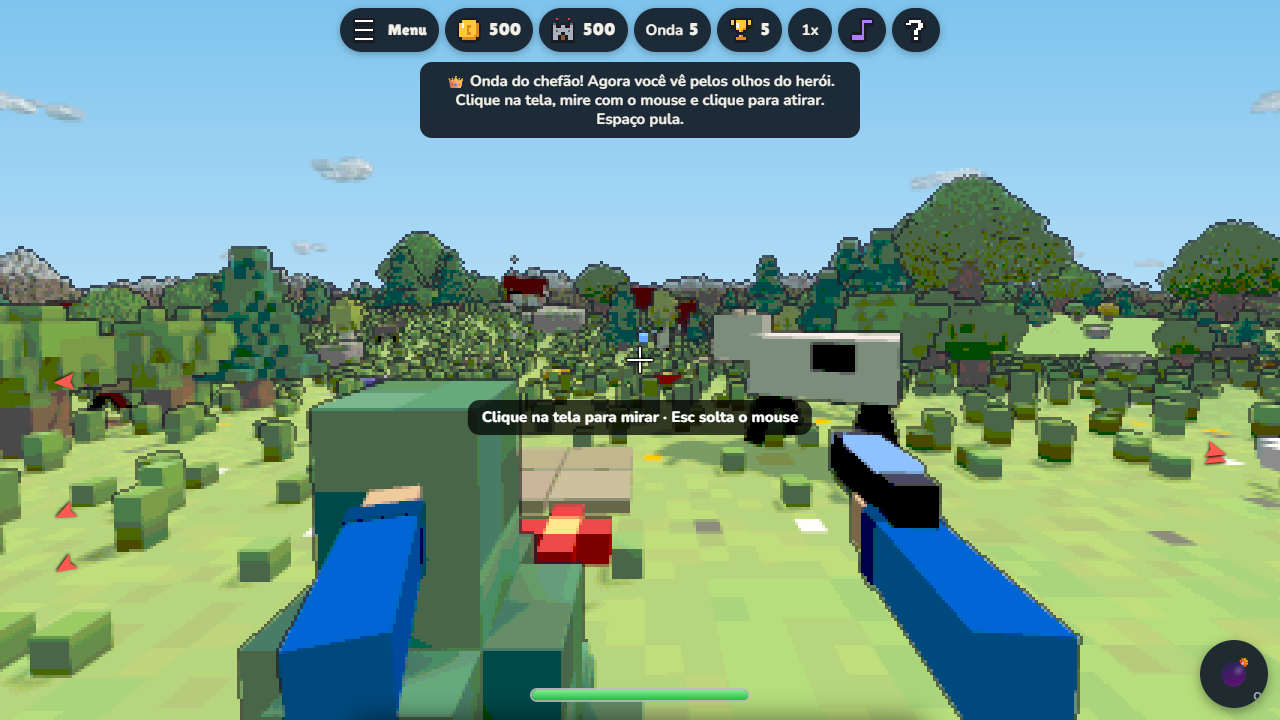
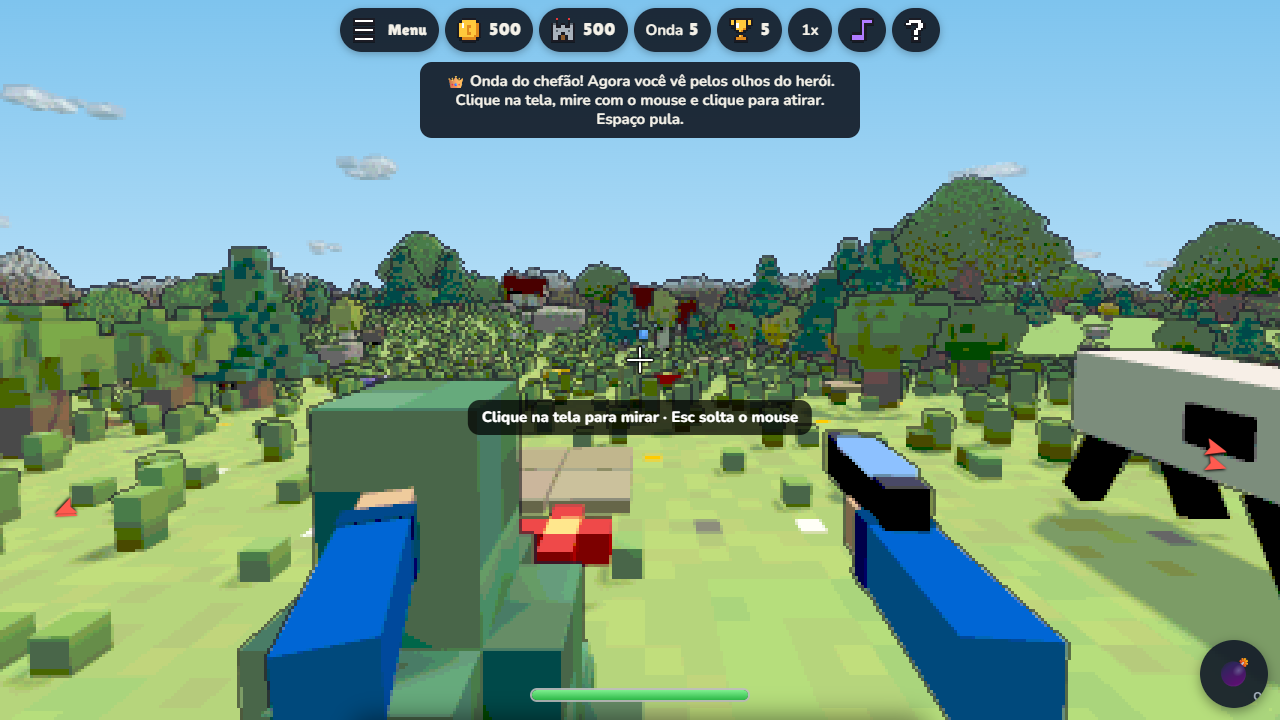
feat: online com visão em primeira pessoa e contra com castelos mais longe
- Juntos e contra: botão 1ª pessoa/normal (tecla V), cada jogador escolhe.
  O convidado manda a mira e o tiro para o host.
- Contra: castelos 40 casas um do outro (eram 30). Tiro e bomba do herói
  acertam as armas e o castelo do outro jogador; o herói mira sozinho neles
  quando não há monstro perto.

diff --git a/index.html b/index.html
@@ -74,12 +74,14 @@ background:var(--card);border-radius:20px 20px 0 0;box-shadow:0 -6px 24px #0007;
 #fpHp{position:fixed;left:50%;bottom:calc(var(--sab) + 18px);width:220px;max-width:40vw;height:14px;transform:translateX(-50%);background:#000a;border:2px solid #fffa;border-radius:9px;overflow:hidden;display:none;pointer-events:none}
 #fpHp i{display:block;height:100%;width:100%;background:linear-gradient(#7ef08f,#2fbf4a);transition:width .15s}
 #fpHint{position:fixed;left:50%;top:calc(50% + 40px);transform:translateX(-50%);background:#000b;color:#fff;padding:8px 14px;border-radius:12px;pointer-events:none;display:none;white-space:nowrap;font-weight:800}
-#fpBtns{position:fixed;right:calc(var(--sar) + 14px);bottom:calc(var(--sab) + 104px);display:none;align-items:flex-end;gap:14px;touch-action:none}
+#fpBtns{position:fixed;right:calc(var(--sar) + 92px);bottom:calc(var(--sab) + 84px);display:none;flex-direction:column;align-items:center;gap:12px;touch-action:none}
 #fpFire{width:88px;height:88px;border-radius:50%;background:#e23b3bdd;box-shadow:0 4px 0 #8f1f1f,0 6px 14px #0006}#fpFire .ico{width:40px;height:40px;margin:0}
 #fpFire.on{transform:translateY(3px);box-shadow:0 1px 0 #8f1f1f}
 #fpJump{width:64px;height:64px;border-radius:50%;background:var(--card);font-size:26px;box-shadow:0 4px 12px #0006}
 body.fp #cross,body.fp #fpHp{display:block}body.fp #fpHint:not([hidden]){display:block}body.fp.touch #fpBtns{display:flex}
-body.fp #shopBtn,body.fp #wave,body.fp #aimHint{display:none}
+body.fpSolo #shopBtn,body.fp.fpWaving #wave{display:none}body.touch #fpHp{left:calc(var(--sal) + 18px);bottom:calc(var(--sab) + 162px);width:132px;transform:none}
+body.touch #viewBtn{width:60px;height:60px;border-radius:50%;padding:0;flex-direction:column;justify-content:center;gap:1px;font-size:10px;line-height:1.05}body.touch #viewBtn .ico{margin:0;width:22px;height:22px}
+#viewBtn{display:flex;align-items:center;gap:4px;padding:0 14px;background:var(--card);box-shadow:0 4px 12px #0006;font-weight:800}#viewBtn[hidden]{display:none}#viewBtn.on{background:#ffc93c;color:#2a1a00}
 .ico{width:1.25em;height:1.25em;flex:none;vertical-align:-.25em;margin-right:.4em;filter:drop-shadow(0 1px 0 #0006)}
 .pill .ico{width:24px;height:24px;margin-right:2px}#menuBtn .ico,#helpBtn .ico,#musPill .ico{margin:0}#menuBtn .lbl{font-family:"Lilita One",Nunito,sans-serif;font-weight:400;letter-spacing:.5px}
 .pill b{font-family:"Lilita One",Nunito,sans-serif;font-weight:400;font-size:17px;letter-spacing:.5px}
@@ -189,6 +191,7 @@ body.fp #shopBtn,body.fp #wave,body.fp #aimHint{display:none}
 <div id="fpHint" hidden>Clique na tela para mirar · Esc solta o mouse</div>
 <div id="fpBtns"><button id="fpJump" aria-label="Pular">▲</button><button id="fpFire" aria-label="Atirar (segure)"><span class="hi" data-i="target"></span></button></div>
 <div id="bar">
+  <button id="viewBtn" hidden><span class="hi" data-i="eye"></span><span class="t">1ª pessoa</span></button>
   <button id="shopBtn" class="round" aria-label="Abrir loja">🛒</button>
   <button id="runBtn" class="round" aria-label="Correr mais rápido" hidden>⚡<small id="runLeft"></small></button>
   <button id="bomb" aria-label="Jogar bomba">💣<small id="bombKey">Q</small></button>
@@ -352,6 +355,7 @@ const ICO = {
   keys: ['KKKKKKKKKK', 'KWWKWWKWWK', 'KKKKKKKKKK', 'KWKWWWWKWK', 'KKKKKKKKKK'],
   mouse: ['..KKKK..', '.KWWKSK.', 'KWWWKSSK', 'KKKKKKKK', 'KSSSSSSK', 'KSSSSSSK', '.KSSSSK.', '..KKKK..'],
   pad: ['KKKKKKKKKK', 'KSSSSKSSSK', 'KSSSSKSSSK', 'KKKKKKKKKK', 'KSSKSSSSSK', 'KSSKSSSSSK', 'KKKKKKKKKK'],
+  eye: ['..........', '...KKKK...', '.KKWWWWKK.', 'KWWWccWWWK', 'KWWcKKcWWK', 'KWWcKKcWWK', 'KWWWccWWWK', '.KKWWWWKK.', '...KKKK...'],
   play: ['KK......', 'KWKK....', 'KWWWKK..', 'KWWWWWKK', 'KWWWWWKK', 'KWWWKK..', 'KWKK....', 'KK......'],
 };
 /** Ícone em SVG (pixels nítidos). Junta pixels vizinhos da mesma cor para ficar leve. */
@@ -495,7 +499,8 @@ const BICHOS_TXT = { floresta: '🐄 Bois, bodes e coelhos', deserto: '🐪 Came
 const PVP = MODE === "pvp", ONLINE = MODE !== "solo", ME = ROLE === "guest" ? 1 : 0, GUEST = ROLE === "guest";
 // Castelos (centro em coordenadas de casa). No contra, cada jogador tem o seu: 0 a oeste, 1 a leste.
 const CASTLE_MAX = 500;   // vida do castelo (todos os modos)
-const CASTLES = PVP ? [{ ci: HALF - 15.5, cj: C0 }, { ci: HALF + 14.5, cj: C0 }] : [{ ci: C0, cj: C0 }];
+const PVP_GAP = 40;   // casas entre os dois castelos no modo contra (era 30)
+const CASTLES = PVP ? [{ ci: HALF - PVP_GAP / 2 - .5, cj: C0 }, { ci: HALF + PVP_GAP / 2 - .5, cj: C0 }] : [{ ci: C0, cj: C0 }];
 // Portais: 0 norte, 1 sul, 2 oeste, 3 leste. No contra, os do jogador 0 são norte e oeste; os do jogador 1, sul e leste.
 const SIDE_TEAM = [0, 1, 0, 1];
 const castleDist = (i, j) => Math.min(...CASTLES.map(c => Math.max(Math.abs(i - c.ci), Math.abs(j - c.cj))));
@@ -1948,6 +1953,18 @@ const hitAny = (tg, dmg, flash) => tg.kind === 'hero' ? damageTarget(tg, dmg) : 
 // Herói inimigo (só no contra) que um tiro/área do jogador pl pode acertar
 const foeHero = pl => PVP ? heroes[1 - pl] : null;
 function hitFoeHero(pl, x, z, rad, dmg) { const fh = foeHero(pl); if (fh && !fh.dead && Math.hypot(fh.pos.x - x, fh.pos.z - z) < rad + fh.r) { damageTarget(fh, dmg); return fh; } return null; }
+// Contra: as armas e o castelo do outro jogador também levam tiro e bomba do herói.
+const PVP_HIT_TOWER = 1, PVP_HIT_CASTLE = .4, CASTLE_R = 2.2;
+function pvpStructs(pl) {
+  if (!PVP) return [];
+  const L = [];
+  for (const t of towers) if (!t.dead && t.owner !== pl) L.push({ tg: t, x: t.pos.x, z: t.pos.z, r: t.r, k: PVP_HIT_TOWER });
+  for (const cs of CASTLES) if (cs.T.pl !== pl) L.push({ tg: cs.T, x: cs.x, z: cs.z, r: CASTLE_R, k: PVP_HIT_CASTLE, box: true });
+  return L;
+}
+const structDist = (o, x, z) => o.box ? Math.hypot(Math.max(Math.abs(x - o.x) - o.r, 0), Math.max(Math.abs(z - o.z) - o.r, 0)) : Math.max(0, Math.hypot(x - o.x, z - o.z) - o.r);
+function pvpStructHit(pl, x, z, rad, dmg) { for (const o of pvpStructs(pl)) if (structDist(o, x, z) < rad) { damageTarget(o.tg, dmg * o.k); return o; } return null; }
+function pvpStructArea(pl, x, z, rad, dmg) { for (const o of pvpStructs(pl)) if (structDist(o, x, z) < rad) damageTarget(o.tg, dmg * o.k); }
 function areaDamage(p, radius, dmg, castleDmg, team = -1) {
   const foe = PVP ? 1 - team : -1, ok = pl => !PVP || pl === foe;
   for (const hh of heroes) if (!hh.dead && ok(hh.pl) && Math.hypot(hh.pos.x - p.x, hh.pos.z - p.z) < radius + hh.r) damageTarget(hh, dmg);
@@ -2259,7 +2276,7 @@ function explodeAt(p, radius, dmg, big, pl = 0, heroHit = false) {
   p.y = .2; sfx('boom', p.x, p.z); pfx(big ? 'bigboom' : 'boom', p.x, 0, p.z, big ? 1 : .75);
   burst(p, 0xffa53a, big ? 18 : 10, big ? 4 : 3, big ? .17 : .14); burst(p, 0x777777, big ? 9 : 6, 2, .12);
   for (const e of [...enemies]) if (!e.dead && !(PVP && e.team === pl) && Math.hypot(e.pos.x - p.x, e.pos.z - p.z) <= radius + e.r) hurt(e, dmg);
-  if (heroHit) hitFoeHero(pl, p.x, p.z, radius, dmg * .5);
+  if (heroHit) { hitFoeHero(pl, p.x, p.z, radius, dmg * .5); pvpStructArea(pl, p.x, p.z, radius, dmg * .5); }
 }
 function updateShots(dt) {
   for (const s of shots) {
@@ -2273,6 +2290,7 @@ function updateShots(dt) {
     if (s.k === 'hb') {
       const step = s.sp * dt; s.m.position.addScaledVector(s.dir, step); s.life -= dt;
       const pl = s.pl || 0, land = () => { if (s.rad) radArea(s.m.position, pl); else if (s.poison) { poisonArea(s.m.position, 1.4, 0, s.poison, pl); clouds[clouds.length - 1].hero = PVP; } else burst(s.m.position, 0x93c5fd, 3, 1, .06); };
+      if (PVP && pvpStructHit(pl, s.m.position.x, s.m.position.z, .18, s.boom ? s.dmg * 4 : s.dmg)) { s.done = true; land(); continue; }
       if (s.life <= 0 || hitsSolid(s.m.position.x, s.m.position.z)) { s.done = true; land(); continue; }
       for (const e of enemies) if (!e.dead && !(PVP && e.team === pl) && Math.hypot(e.pos.x - s.m.position.x, e.pos.z - s.m.position.z) < e.r + .18) {
         hurt(e, s.dmg); s.done = true; if (s.boom) stickArrow(e, pl); else land();
@@ -2539,6 +2557,7 @@ function heroAttack(dir) {
       if (e.kind === 'hero') { damageTarget(e, 3 + n * .6); continue; }
       hurt(e, 3 + n * .6); e.burnDps = Math.max(e.burnT > 0 ? e.burnDps : 0, 4 + n * .8); e.burnT = 2.5;
     }
+    for (const st of pvpStructs(hero.pl)) { const dx = st.x - hero.pos.x, dz = st.z - hero.pos.z, d = Math.hypot(dx, dz) || 1e-3; if (d <= HW.fogo.range + st.r && (dx * dir.x + dz * dir.z) / d >= .75) damageTarget(st.tg, (3 + n * .6) * st.k); }
     return;
   }
   if (w === 'raio') {
@@ -2575,6 +2594,7 @@ function heroAttack(dir) {
     hurt(e, e.T.boss ? e.maxHp * (e.type === 'rex' ? .06 : e.type === 'dragao' ? .045 : .04) + 30 + n * 4 : e.maxHp + 50);
     burst(V(e.pos.x, e.hitY + .2, e.pos.z), 0xff4040, 6, 2, .08);
   }
+  for (const st of pvpStructs(hero.pl)) { const dx = st.x - o.x, dz = st.z - o.z, t = dx * dir.x + dz * dir.z; if (t >= 0 && t <= L + st.r && Math.abs(dx * dir.z - dz * dir.x) <= st.r + .3) damageTarget(st.tg, (40 + n * 4) * st.k); }
   laserBeam(o, V(o.x + dir.x * L, .8, o.z + dir.z * L));
 }
 const heroLaserMat = new THREE.MeshBasicMaterial({ color: 0xff2a2a }), laserCore = new THREE.MeshBasicMaterial({ color: 0xffe4e4 });
@@ -2675,9 +2695,11 @@ function updateHero(dt, rdt, time) {
     if (d < nd) { nd = d; nearE = e; }
     if (d < 3.5) danger = true;
   }
-  if (FP.on && hero.pl === ME) {
+  if (!nearE && PVP) for (const st of pvpStructs(hero.pl)) { const d = structDist(st, hero.pos.x, hero.pos.z); if (d < nd) { nd = d; nearE = { pos: V(st.x, 0, st.z) }; } }
+  const fpCtl = hero.pl === ME ? (FP.on ? FP : null) : (NET.inp && NET.inp.fp && NET.inp.life === hero.life ? NET.inp : null);
+  if (fpCtl) {
     // primeira pessoa: atira para onde a mira aponta, só quando você aperta. Ajuda leve puxa para o monstro perto da mira.
-    aimV.set(-Math.sin(FP.yaw), 0, -Math.cos(FP.yaw));
+    aimV.set(-Math.sin(fpCtl.yaw), 0, -Math.cos(fpCtl.yaw));
     let bestA = .1, tgt = null;
     for (const e of TG) {
       const dx = e.pos.x - hero.pos.x, dz = e.pos.z - hero.pos.z, d = Math.hypot(dx, dz);
@@ -2686,7 +2708,7 @@ function updateHero(dt, rdt, time) {
     }
     if (tgt) aimV.set(tgt.pos.x - hero.pos.x, 0, tgt.pos.z - hero.pos.z).normalize();
     face = null; hero.g.rotation.y = Math.atan2(aimV.x, aimV.z);
-    if (FP.fire && dt && hero.cd <= 0) { heroAttack(aimV); FP.kick = 1; }
+    if (fpCtl.fire && dt && hero.cd <= 0) { heroAttack(aimV); if (hero.pl === ME) FP.kick = 1; }
   } else if (nearE && dt) {
     if (aimP) {
       aimV.set(aimP.x - hero.pos.x, 0, aimP.z - hero.pos.z).normalize();
@@ -2947,7 +2969,7 @@ $('helpList').innerHTML = TOUCH
   ? '<li>' + ico('zombie') + ' A partir da onda 5 aparecem os zumbis <b>Chipados</b>. Derrube um e ele solta uma ' + ico('heart') + ': pegue e leve até o castelo para ganhar vida.</li><li>' + ico('shield') + ' Onda 10: o <b>Ogro</b> solta um escudo (1 minuto sem levar dano). ' + ico('bolt') + ' Onda 15: o <b>Mutante</b> solta fôlego para correr mais rápido. ' + ico('dino') + ' Onda 20: chega o <b>Rei Rex</b>! ' + ico('dragon') + ' Da onda 25 em diante: o <b>Dragão</b>, que cospe fogo!</li><li>' + ico('cow') + BICHOS_TXT.replace(/^\S+\s/, '') + ' andam pelo mapa e atrapalham os monstros.</li><li>Ande com o controle redondo à esquerda.</li><li>O herói atira sozinho no monstro mais perto.</li><li>' + ico('bomb') + ' joga uma bomba. ' + ico('cart') + ' abre a loja de armas.</li><li>Toque nas placas de pedra para pôr armas.</li><li>Os monstros vêm de todos os lados e atacam suas armas.</li>'
   : '<li>' + ico('zombie') + ' A partir da onda 5 aparecem os zumbis <b>Chipados</b>. Derrube um e ele solta uma ' + ico('heart') + ': pegue e leve até o castelo para ganhar vida.</li><li>' + ico('shield') + ' Onda 10: o <b>Ogro</b> solta um escudo (1 minuto sem levar dano). ' + ico('bolt') + ' Onda 15: o <b>Mutante</b> solta fôlego para correr mais rápido. ' + ico('dino') + ' Onda 20: chega o <b>Rei Rex</b>! ' + ico('dragon') + ' Da onda 25 em diante: o <b>Dragão</b>, que cospe fogo!</li><li>' + ico('cow') + BICHOS_TXT.replace(/^\S+\s/, '') + ' andam pelo mapa e atrapalham os monstros.</li><li><b>WASD</b> ou setas: anda com o herói.</li><li>O herói atira sozinho quando um monstro chega perto. <b>O mouse escolhe a direção</b>. Clique para atirar também.</li><li><b>Q</b> ou <b>espaço</b>: joga bomba onde o mouse aponta.</li><li>Clique nas placas de pedra para pôr armas.</li><li><b>B</b> ou ' + ico('cart') + ': loja com armas novas.</li><li><b>Enter</b> começa a onda. Arraste para mover a câmera, roda do mouse para zoom.</li>';
 $('bombKey').hidden = TOUCH;
-$('helpList').insertAdjacentHTML('afterbegin', '<li>' + ico('target') + ' Nas ondas <b>5, 10, 15...</b> vem um chefão e o jogo vira <b>primeira pessoa</b>: ' + (TOUCH ? 'arraste a tela para mirar, segure o botão vermelho para atirar e use ▲ para pular' : 'o mouse mira, o clique atira, <b>espaço</b> pula e <b>Q</b> joga bomba') + '. A loja fecha até você vencer a onda.</li>');
+$('helpList').insertAdjacentHTML('afterbegin', '<li>' + ico('target') + ' Nas ondas <b>5, 10, 15...</b> vem um chefão e o jogo vira <b>primeira pessoa</b>: ' + (TOUCH ? 'arraste a tela para mirar, segure o botão vermelho para atirar e use ▲ para pular' : 'o mouse mira, o clique atira, <b>espaço</b> pula e <b>Q</b> joga bomba') + '. A loja fecha até você vencer a onda. No jogo online, o botão <b>1ª pessoa</b>' + (TOUCH ? '' : ' (ou a tecla <b>V</b>)') + ' troca a visão quando você quiser.</li>');
 for (const el of document.querySelectorAll('.hi[data-i]')) el.outerHTML = ico(el.dataset.i, el.className.replace('hi', '').trim());
 function addPower(p) { S.power = Math.round((S.power + p) * 100) / 100; S.dmgMul = 1 + S.power * .5; }
 let shopSig = '';
@@ -2966,7 +2988,7 @@ function renderShop() {
     `${T.desc}. Depois custa 🪙 ${T.cost} cada${pw(S.unlocked.has(T) ? 0 : T.power)}`,
     S.unlocked.has(T) ? '<button class="on" disabled>✓ Liberada</button>' : `<button class="pri" data-unlock="${k}" ${S.gold >= T.unlock ? '' : 'disabled'}>Liberar 🪙 ${T.unlock}</button>`)).join('');
 }
-function openShop() { if (S.over) return; if (FP.on) return toast('Na onda do chefão a loja fica fechada. Vença a onda para comprar!', 2600); closeSheet(); S.shop = true; shopSig = ''; renderShop(); $('shop').classList.add('show'); }
+function openShop() { if (S.over) return; if (document.pointerLockElement) document.exitPointerLock(); if (FP.on && !ONLINE) return toast('Na onda do chefão a loja fica fechada. Vença a onda para comprar!', 2600); closeSheet(); S.shop = true; shopSig = ''; renderShop(); $('shop').classList.add('show'); }
 function closeShop() { S.shop = false; $('shop').classList.remove('show'); updateUI(); }
 $('shopBtn').onclick = openShop;
 $('shopClose').onclick = closeShop;
@@ -3017,6 +3039,7 @@ addEventListener('keydown', e => {
   if (e.code === 'Enter') act({ c: 'wave' });
   if (e.code === 'KeyB') { S.shop ? closeShop() : openShop(); }
   if (e.code === 'Escape' && S.shop) closeShop();
+  if (e.code === 'KeyV') toggleView();
   if (e.code === 'Space' && FP.on) { e.preventDefault(); fpJump(); }
   else if (e.code === 'KeyQ' || e.code === 'Space') { e.preventDefault(); throwBomb(); }
   if ((e.code === 'ShiftLeft' || e.code === 'ShiftRight') && !e.repeat) toggleSprint();
@@ -3137,7 +3160,7 @@ const FP_GLOW = { blaster: 0x93c5fd, fogo: 0xff8a1f, raio: 0xfde047, radiacao: 0
 const fpTouch = new Map();
 function fpSet(on) {
   if (FP.on === on) return;
-  FP.on = on; document.body.classList.toggle('fp', on);
+  FP.on = on; document.body.classList.toggle('fp', on); document.body.classList.toggle('fpSolo', on && !ONLINE); viewBtnUI();
   if (!FP.arms) FP.arms = makeFpArms();
   FP.arms.visible = on; FP.fire = false; FP.y = FP.vy = 0; fpTouch.clear(); $('fpFire').classList.remove('on');
   ptrs.clear(); drag = null;
@@ -3145,13 +3168,19 @@ function fpSet(on) {
   if (on) {
     closeSheet();
     FP.yaw = hero.g.rotation.y + Math.PI; FP.pitch = -.06;
-    toast('👑 Onda do chefão! Agora você vê pelos olhos do herói. ' + (TOUCH ? 'Arraste a tela para mirar, segure o botão vermelho para atirar.' : 'Clique na tela, mire com o mouse e clique para atirar. Espaço pula.'), 4500);
+    showToast((ONLINE ? '👁 Primeira pessoa! ' : '👑 Onda do chefão! Agora você vê pelos olhos do herói. ') + (TOUCH ? 'Arraste a tela para mirar, segure o botão vermelho para atirar.' : 'Clique na tela, mire com o mouse e clique para atirar. Espaço pula.'), 4500);
   } else {
     if (document.pointerLockElement) document.exitPointerLock();
     hero.g.visible = hero.bar.g.visible = !hero.dead; C.follow = true; C.goal = null;
+    if (ONLINE) showToast('Visão normal. Aqui você coloca armas nas placas.', 2200);
   }
   updateCam();
 }
+// No online cada jogador escolhe: primeira pessoa ou normal (fica guardado no aparelho).
+FP.pick = (() => { try { return localStorage.getItem('vd-visao') === '1p'; } catch (e) { return false; } })();
+function viewBtnUI() { const b = $('viewBtn'); b.hidden = !ONLINE; b.classList.toggle('on', FP.pick); b.querySelector('.t').textContent = FP.pick ? (TOUCH ? 'Normal' : 'Visão normal') : '1ª pessoa'; b.setAttribute('aria-label', FP.pick ? 'Voltar para a visão normal' : 'Jogar em primeira pessoa'); }
+function toggleView() { if (!ONLINE) return; FP.pick = !FP.pick; try { localStorage.setItem('vd-visao', FP.pick ? '1p' : 'normal'); } catch (e) {} viewBtnUI(); }
+$('viewBtn').onclick = toggleView; viewBtnUI();
 function fpJump() { if (!FP.on || hero.dead || FP.y > 0) return; FP.vy = FP_JUMP; sfx('step', hero.pos.x, hero.pos.z); }
 function fpPointerDown(e) {
   if (e.pointerType === 'mouse') {
@@ -3183,7 +3212,8 @@ document.addEventListener('pointerlockchange', () => { if (document.pointerLockE
 }
 // Chamado a cada quadro: liga/desliga pela onda, faz o pulo e mexe os bracinhos.
 function fpFrame(rdt, dt) {
-  const want = fpWave(S.wave) && S.waveActive && !S.over && !GUEST;
+  const want = ONLINE ? FP.pick && !S.over : fpWave(S.wave) && S.waveActive && !S.over;
+  document.body.classList.toggle('fpWaving', !!S.waveActive);
   if (want !== FP.on) fpSet(want);
   if (!FP.on) return;
   hero.g.visible = hero.bar.g.visible = false;
@@ -3193,7 +3223,7 @@ function fpFrame(rdt, dt) {
   if (moving && FP.y === 0) FP.bob += rdt * 10;
   C.tx = hero.pos.x; C.tz = hero.pos.z; C.follow = true; C.goal = null;
   $('fpHpIn').style.width = (hero.dead ? 0 : Math.max(0, hero.hp / hero.maxHp) * 100) + '%';
-  $('fpHint').hidden = TOUCH || document.pointerLockElement === canvas || !S.started;
+  $('fpHint').hidden = TOUCH || document.pointerLockElement === canvas || (!ONLINE && !S.started) || S.shop;
 }
 function fpArmsPose(time) {
   if (!FP.on || !FP.arms) return;
@@ -3500,7 +3530,7 @@ function guestFrame(rdt, dt) {
   for (const an of animals) { if (an.tx === undefined) continue; an.pos.x += (an.tx - an.pos.x) * f; an.pos.z += (an.tz - an.pos.z) * f; an.g.rotation.y = lerpAng(an.g.rotation.y, an.try, f); an.walk += (an.tw - an.walk) * f; animAnimal(an); }
   if (NET.live && (inT += rdt) >= .05) {
     inT = 0; const hh = heroes[ME];
-    NET.send({ t: 'i', x: r2(hh.pos.x), z: r2(hh.pos.z), life: hh.life, sp: hh.sprint ? 1 : 0, aim: !TOUCH && mouse.ok ? [r2(mouse.p.x), r2(mouse.p.z)] : null });
+    NET.send({ t: 'i', x: r2(hh.pos.x), z: r2(hh.pos.z), life: hh.life, sp: hh.sprint ? 1 : 0, aim: !FP.on && !TOUCH && mouse.ok ? [r2(mouse.p.x), r2(mouse.p.z)] : null, fp: FP.on ? 1 : 0, yaw: Math.round(FP.yaw * 1000) / 1000, fire: FP.fire ? 1 : 0 });
   }
 }
 function onNet(m) {

diff --git a/sw.js b/sw.js
@@ -1,6 +1,6 @@
 // Guarda os arquivos do jogo para abrir sem internet.
 // Ao mudar o jogo, troque o número da versão para os celulares baixarem a versão nova.
-const CACHE = 'voxel-defense-v31';
+const CACHE = 'voxel-defense-v32';
 const ASSETS = [
   './', './index.html', './conta.js', './manifest.webmanifest', './icons/icon-192.png', './icons/icon-512.png',
   'https://cdn.jsdelivr.net/npm/three@0.160.0/build/three.module.js',
